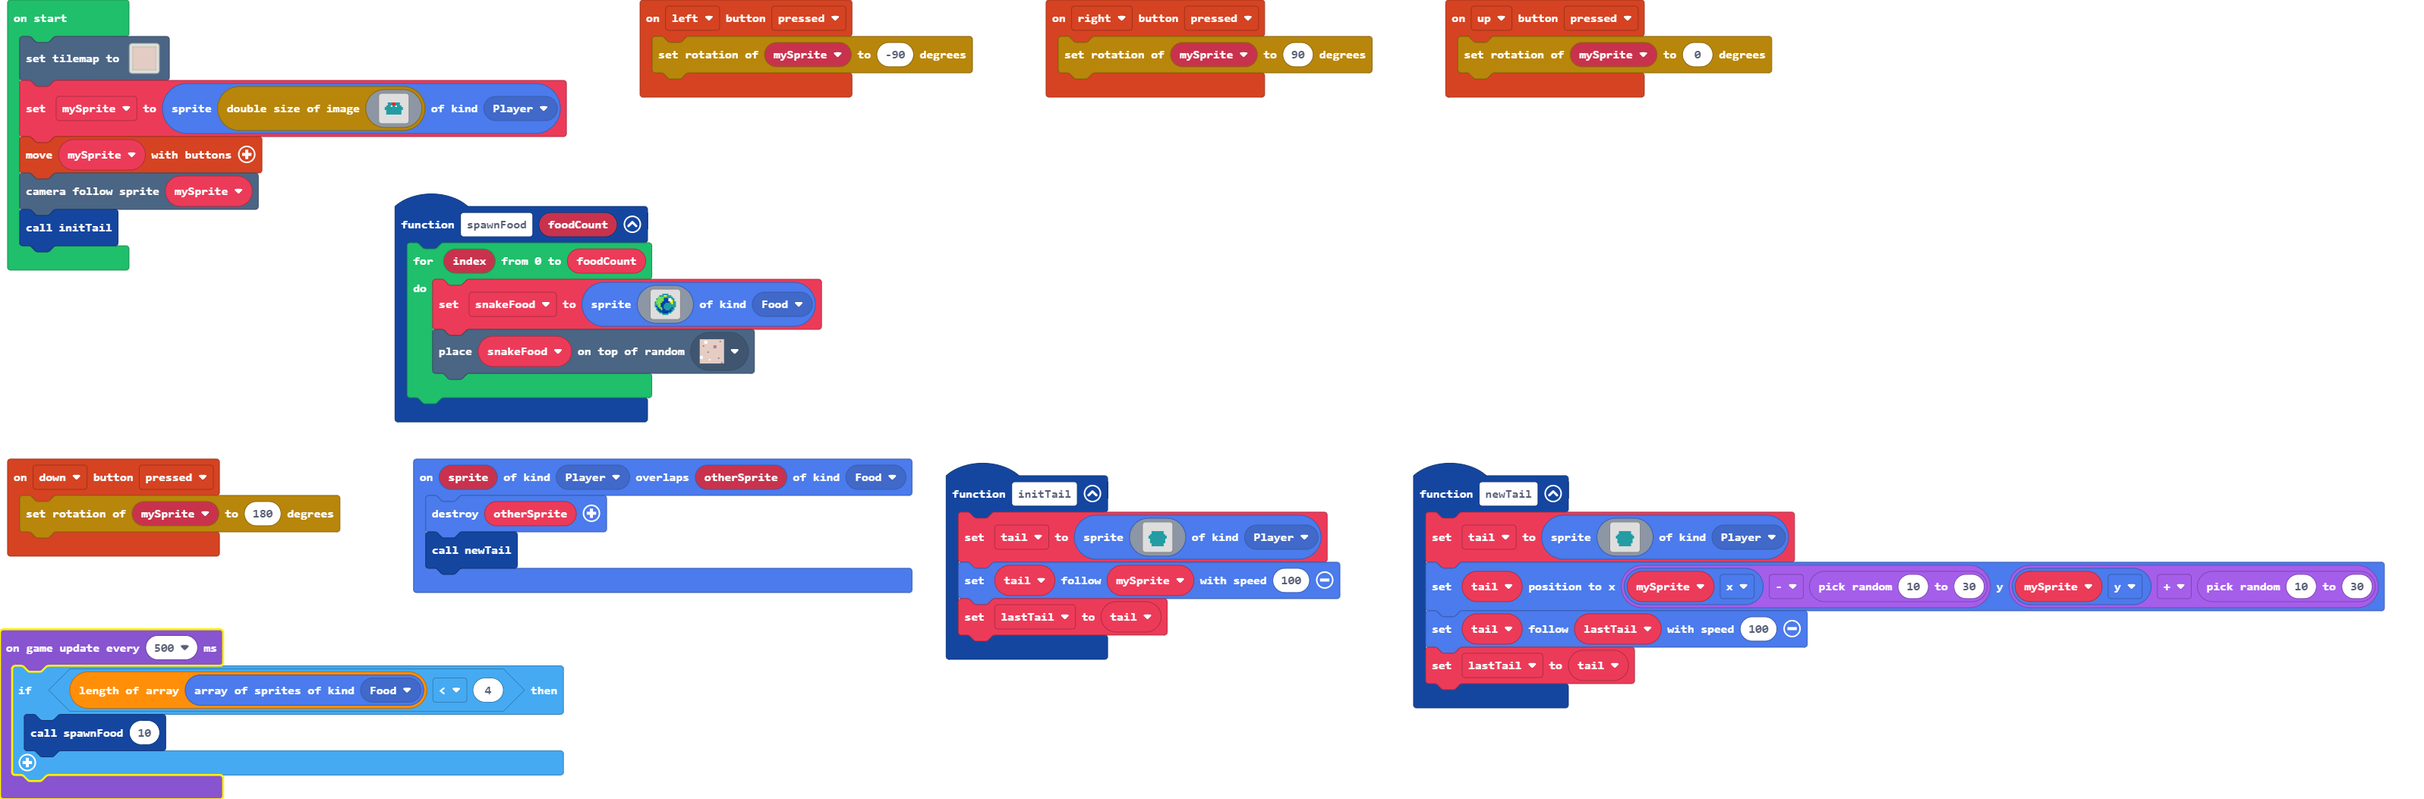
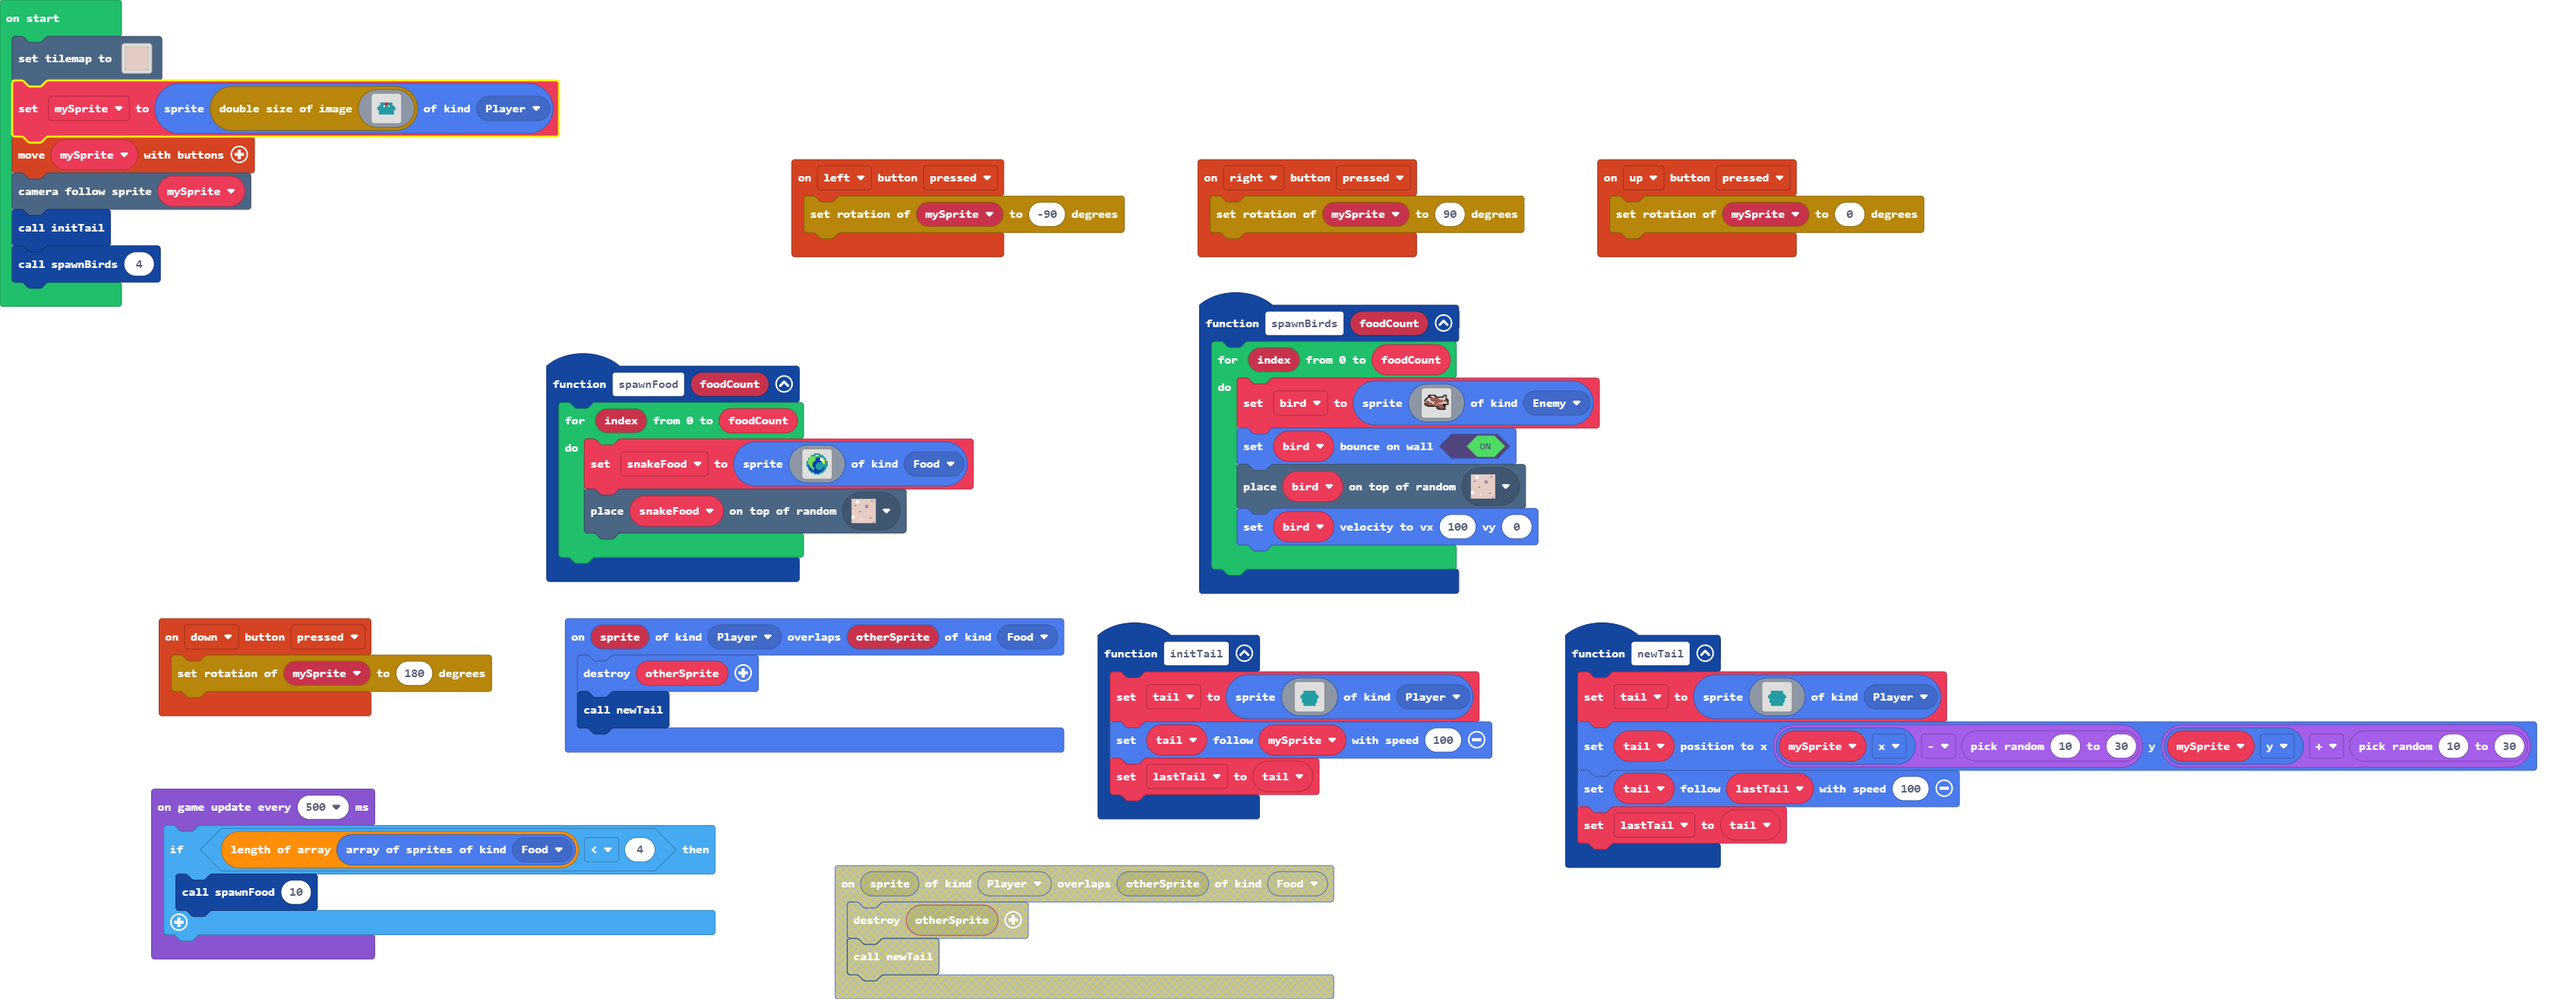
birds

diff --git a/main.ts b/main.ts
@@ -1,3 +1,28 @@
+function spawnBirds (foodCount: number) {
+    for (let index = 0; index <= foodCount; index++) {
+        bird = sprites.create(img`
+            ....fffffff........fff..
+            ....ffddddff......ffdf..
+            ...ffffedddffffffffddf..
+            ..ffddeeeeeeeedddddddf..
+            .ffd1eeeeeeeeeeddddddff.
+            ffd111eeeeeeeeeeeedeeeff
+            fdeef1deeeeeeeeeeeeeeeef
+            deeeedd11eeeeeeeeeddddef
+            feeeeeef11eeeedddddddddf
+            ffeeeeeeeeeeedeeedffffff
+            .fffeeeeeeedeeeeeefff...
+            ...ffffffffffeeeeeeff...
+            ............ffeeeeeef...
+            ............fffeeeeef...
+            ..............fffffff...
+            ........................
+            `, SpriteKind.Enemy)
+        bird.setBounceOnWall(true)
+        tiles.placeOnRandomTile(bird, sprites.castle.tilePath5)
+        bird.setVelocity(100, 0)
+    }
+}
 controller.up.onEvent(ControllerButtonEvent.Pressed, function () {
     transformSprites.rotateSprite(mySprite, 0)
 })
@@ -85,6 +110,7 @@ function newTail () {
 let lastTail: Sprite = null
 let tail: Sprite = null
 let snakeFood: Sprite = null
+let bird: Sprite = null
 let mySprite: Sprite = null
 tiles.setTilemap(tilemap`level1`)
 mySprite = sprites.create(transformSprites.scale2x(img`
@@ -108,6 +134,7 @@ mySprite = sprites.create(transformSprites.scale2x(img`
 controller.moveSprite(mySprite)
 scene.cameraFollowSprite(mySprite)
 initTail()
+spawnBirds(4)
 game.onUpdateInterval(500, function () {
     if (sprites.allOfKind(SpriteKind.Food).length < 4) {
         spawnFood(10)
